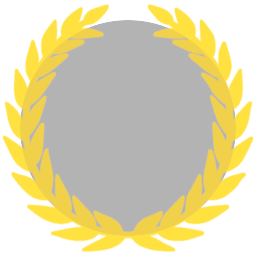
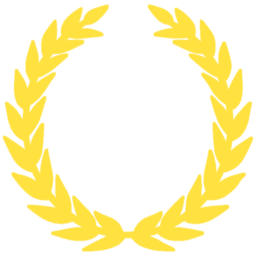
Change the display of the laurels

diff --git a/project/_source/source/menu/CMenuProfiles.cpp b/project/_source/source/menu/CMenuProfiles.cpp
@@ -643,16 +643,19 @@ namespace dustbin {
         * @see m_aProfiles
         */
         void buttonControlsOkClicked() {
-          if (m_iEditing >= 0 && m_iEditing <= m_iMaxIndex && m_aProfiles[m_iEditing].isValid() && m_pControllerUI != nullptr) {
-            switch (m_pCtrlType->getSelected()) {
-              case 0: m_aProfiles[m_iEditing].m_cData.m_sControls = m_pControllerUI->serialize(); break;
-              case 1: m_aProfiles[m_iEditing].m_cData.m_sControls = "DustbinTouchSteerRight"    ; break;
-              case 2: m_aProfiles[m_iEditing].m_cData.m_sControls = "DustbinTouchSteerLeft"     ; break;
-              case 3: m_aProfiles[m_iEditing].m_cData.m_sControls = "DustbinTouchSteerOnly"     ; m_aProfiles[m_iEditing].m_cData.m_eAiHelp = data::SPlayerData::enAiHelp::High; break;
-              case 4: m_aProfiles[m_iEditing].m_cData.m_sControls = "DustbinGyroscope"          ; break;
+          if (m_pCtrlType != nullptr) {
+            if (m_iEditing >= 0 && m_iEditing <= m_iMaxIndex && m_aProfiles[m_iEditing].isValid() && m_pControllerUI != nullptr) {
+              switch (m_pCtrlType->getSelected()) {
+                case 0: m_aProfiles[m_iEditing].m_cData.m_sControls = m_pControllerUI->serialize(); break;
+                case 1: m_aProfiles[m_iEditing].m_cData.m_sControls = "DustbinTouchSteerRight"    ; break;
+                case 2: m_aProfiles[m_iEditing].m_cData.m_sControls = "DustbinTouchSteerLeft"     ; break;
+                case 3: m_aProfiles[m_iEditing].m_cData.m_sControls = "DustbinTouchSteerOnly"     ; m_aProfiles[m_iEditing].m_cData.m_eAiHelp = data::SPlayerData::enAiHelp::High; break;
+                case 4: m_aProfiles[m_iEditing].m_cData.m_sControls = "DustbinGyroscope"          ; break;
+              }
+              m_aProfiles[m_iEditing].fillUI();
             }
-            m_aProfiles[m_iEditing].fillUI();
           }
+          else m_aProfiles[m_iEditing].m_cData.m_sControls = m_pControllerUI->serialize();
 
           if (m_pControlDialog != nullptr) {
             m_pControlDialog->setVisible(false);
@@ -1118,9 +1121,12 @@ namespace dustbin {
                           }
                         }
 
+                        l_iNum--;
+
                         m_aProfiles[i].m_pAddProfile->setVisible(false);
                         m_aProfiles[i].m_pDataRoot  ->setVisible(true);
                         m_aProfiles[i].m_pName      ->setText   (l_sName.c_str());
+                        m_aProfiles[i].m_pShort     ->setText   ((std::wstring(L"Plr#") + std::to_wstring(l_iNum)).c_str());
 
                         m_aProfiles[i].m_cData.m_iPlayerId = i + 1;
                         m_aProfiles[i].m_cData.m_sName = helpers::ws2s(l_sName);

diff --git a/project/_source/source/gui/CGameHUD.cpp b/project/_source/source/gui/CGameHUD.cpp
@@ -471,6 +471,7 @@ namespace dustbin {
       m_bRespawn      (false),
       m_bStunned      (false),
       m_bFinished     (false),
+      m_bRostrum      (false),
       m_bRanking      (true),
       m_iFadeStart    (-1),
       m_iFinished     (-1),
@@ -683,7 +684,17 @@ namespace dustbin {
 
       m_pSpeedBar = new CHudSpeedBar(m_pDrv, l_pRegular, a_cRect);
       m_pSteering = new CHudSteering(m_pDrv, a_cRect);
-      m_pBanner   = new CHudBanner  (m_pDrv, m_pGui, l_pBig, l_pBig, a_cRect);
+      m_pBanner   = new CHudBanner  (m_pDrv, 
+        m_pGui,
+#ifdef _ANDROID
+        l_pRegular,
+        l_pBig,
+#else
+        l_pBig,
+        l_pHuge,
+#endif
+        a_cRect
+      );
       m_pLapTimes = new CHudLapTimes(m_pDrv, m_iMarble, irr::core::vector2di(a_cRect.LowerRightCorner.X, a_cRect.UpperLeftCorner.Y),
 #ifdef _ANDROID
         l_pTiny
@@ -744,8 +755,13 @@ namespace dustbin {
 #endif
         ;
 
-        if (m_pFade != nullptr)
+        if (m_pFade != nullptr) {
           m_pFade->render(CHudFade::enCall::Start);
+
+          if (m_pBanner != nullptr && m_bFinished && !m_bRostrum && m_pFade->getFadeFlag(CHudFade::enFade::Rostrum)) {
+            m_pBanner->setState(CHudBanner::enBanners::Laurel);
+          }
+        }
 
         irr::core::vector2di l_cSpeed = m_pColMgr->getScreenCoordinatesFrom3DPosition(m_pPlayer->m_pMarble->m_pPositional->getAbsolutePosition() - l_fFactor * m_cUpVector, m_pPlayer->m_pMarble->m_pViewport->m_pCamera);
 

diff --git a/project/_source/source/gui/hud_items/CHudFade.cpp b/project/_source/source/gui/hud_items/CHudFade.cpp
@@ -68,6 +68,15 @@ namespace dustbin {
     }
 
     /**
+    * Get a fade flag
+    * @param a_eFade which fade do we want to know?
+    */
+    bool CHudFade::getFadeFlag(enFade a_eFade) {
+      return (m_iFade & (int)a_eFade) != 0;
+    }
+
+
+    /**
     * Tell the fade instance about a simulation step
     * @param a_iStep the current step number
     */
@@ -93,7 +102,7 @@ namespace dustbin {
           }
 
           // Fade in after finished (grey overlay needs be be rendered below everything else)
-          if ((m_iFade & (int)enFade::FinishedIn) == (int)enFade::FinishedIn || (m_iFade & (int)enFade::GamePaused) == (int)enFade::GamePaused) {
+          if ((m_iFade & (int)enFade::FinishedIn) == (int)enFade::FinishedIn || (m_iFade & (int)enFade::GamePaused) == (int)enFade::GamePaused || (m_iFade & (int)enFade::Rostrum) == (int)enFade::Rostrum) {
             m_pDrv->draw2DRectangle(irr::video::SColor(96, 192, 192, 192), m_cRect);
           }
           break;
@@ -151,6 +160,10 @@ namespace dustbin {
 
             if (l_fFactor != 0.0f)
               m_pDrv->draw2DRectangle(irr::video::SColor((irr::s32)(l_fFactor * 255.0f), 0, 0, 0), m_cRect);
+            else {
+              setFadeFlag(enFade::FinishedIn, false);
+              setFadeFlag(enFade::Rostrum   , true );
+            }
           }
           break;
         }

diff --git a/project/_source/source/gui/hud_items/CHudBanner.cpp b/project/_source/source/gui/hud_items/CHudBanner.cpp
@@ -23,6 +23,7 @@ namespace dustbin {
       m_pBanners[(int)enBanners::Stunned       ] = m_pDrv->getTexture("data/images/text_stunned.png");
       m_pBanners[(int)enBanners::Respawn       ] = m_pDrv->getTexture("data/images/text_respawn.png");
       m_pBanners[(int)enBanners::Finished      ] = m_pDrv->getTexture("data/images/text_finished.png");
+      m_pBanners[(int)enBanners::Laurel        ] = m_pDrv->getTexture("data/images/text_finished.png");
       m_pBanners[(int)enBanners::Paused        ] = m_pDrv->getTexture("data/images/pause.png");
 
       
@@ -97,7 +98,7 @@ namespace dustbin {
         else m_pDrv->draw2DImage(m_pBanners[(int)m_eState], m_cRect, m_cSource, &a_cClip, nullptr, true);
       }
 
-      if (m_iFinished >= 0 && m_eState == enBanners::Finished) {
+      if (m_iFinished >= 0 && m_eState == enBanners::Laurel) {
         m_pDrv->draw2DImage(m_pLaurel[m_iFinished < 3 ? m_iFinished : 3], m_cLaurelLft, m_cLaurelSrc, nullptr, nullptr, true);
         m_pDrv->draw2DImage(m_pLaurel[m_iFinished < 3 ? m_iFinished : 3], m_cLaurelRgt, m_cLaurelSrc, nullptr, nullptr, true);
 

diff --git a/project/_source/include/gui/CGameHUD.h b/project/_source/include/gui/CGameHUD.h
@@ -74,6 +74,7 @@ namespace dustbin {
         bool                       m_bRespawn;      /**< Is the marble this HUD belongs to currently respawning? */
         bool                       m_bStunned;      /**< Is the marble this HUD belongs to currently stunned? */
         bool                       m_bFinished;     /**< Has the marble this HUD belongs to finished the race ? */
+        bool                       m_bRostrum;      /**< Is the rostrum shown and the fade-in finished? */
         bool                       m_bRanking;      /**< Show the ranking list */
         int                        m_iFadeStart;    /**< The step when countdown 1 was received (and fading the grid starts) */
         int                        m_iFinished;     /**< Finished position of the player */

diff --git a/project/_source/include/gui/hud_items/CHudFade.h b/project/_source/include/gui/hud_items/CHudFade.h
@@ -40,6 +40,7 @@ namespace dustbin {
           FinishedIn  = 128,     /**< The fade in when the camera is switched to the rostrum */
           RaceEnd     = 256,     /**< Fade out at the end of the race */
           GamePaused  = 512,     /**< The game is paused */
+          Rostrum     = 1024,    /**< Rostrum shown and faded in */
 
           Count
         };
@@ -69,6 +70,12 @@ namespace dustbin {
         * @param a_bActivate true if the state needs to be activated, false otherwise
         */
         void setFadeFlag(enFade a_eFade, bool a_bActivate);
+
+        /**
+        * Get a fade flag
+        * @param a_eFade which fade do we want to know?
+        */
+        bool getFadeFlag(enFade a_eFade);
 
        /**
         * Tell the fade instance about a simulation step

diff --git a/project/_source/include/gui/hud_items/CHudBanner.h b/project/_source/include/gui/hud_items/CHudBanner.h
@@ -21,6 +21,7 @@ namespace dustbin {
           Respawn,
           Stunned,
           Finished,
+          Laurel,
           Paused,
 
           Count
